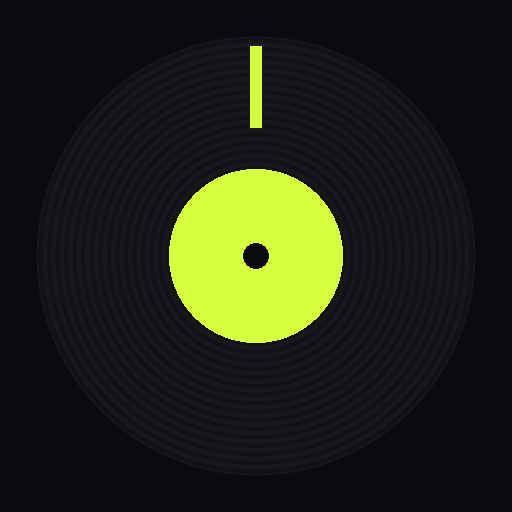
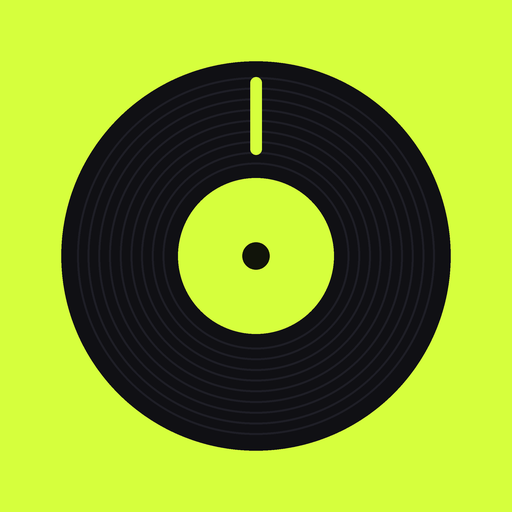
入りをプレイヤーで直せるようにする（波形の線をつかむ・±1拍・ここを入りに）、アイコンを背景から浮くように作り直す

diff --git a/app.js b/app.js
@@ -135,6 +135,14 @@ const bpmOf = (s) => s.bpmManual || s.analysis?.bpm || null;
 const beat0Of = (s) => (s.beat0Manual ?? s.analysis?.beat0) || 0;
 const entryOf = (s) => (s.entryManual ?? s.analysis?.entry) ?? null;
 const beatLen = (s) => (bpmOf(s) ? 60 / bpmOf(s) : null);
+// 入りを手で決める。null なら自動に戻す
+function setEntry(s, t) {
+  if (t == null) delete s.entryManual;
+  else s.entryManual = Math.max(0, Math.min(durSec() || t, t));
+  store.putSong(s);
+  if (s === S.cur) { buildWave(); renderPlayerInfo(); if (S.loopBars) setLoop(S.loopBars); }
+  renderLibrary();
+}
 // 「入り」を一番近い拍に合わせた位置。ここを1小節目1拍目として数える
 function anchorOf(s) {
   const T = beatLen(s), e = entryOf(s), b0 = beat0Of(s);
@@ -682,8 +690,13 @@ function renderPlayerInfo() {
   if (!s) return;
   const bpm = bpmOf(s);
   $('#bpm').textContent = bpm ? `${bpm.toFixed(1)} BPM` : 'BPM --';
-  const e = entryOf(s);
-  $('#entryInfo').textContent = S.analyzing.has(s.id) ? '解析中…' : e != null ? `入り ${fmt1(e)}` : '入り 不明';
+  const e = entryOf(s), T = beatLen(s);
+  $('#entryInfo').replaceChildren(S.analyzing.has(s.id) ? '解析中…' : e != null ? `入り ${fmt1(e)}` : '入り 不明',
+    s.entryManual != null ? h('span', { class: 'tag' }, '手動') : '');
+  // テンポが分かれば1拍ずつ、分からなければ0.1秒ずつ動かす
+  $('#entryBack').textContent = T ? '−1拍' : '−0.1秒';
+  $('#entryFwd').textContent = T ? '+1拍' : '+0.1秒';
+  $('#entryBack').disabled = $('#entryFwd').disabled = e == null;
   const q = S.queue, i = q.indexOf(s.id);
   const next = S.songs.find((x) => x.id === q[(i + 1) % q.length]);
   $('#nextTitle').textContent = next && next !== s ? next.title : '—';
@@ -790,11 +803,19 @@ function drawWave(t) {
   g.fillRect(x - 1, 0, 2, hgt);
 }
 
-function waveSeek(e) {
+function waveTime(e) {
   const r = $('#wave').getBoundingClientRect();
-  const dur = durSec();
-  if (!dur) return;
-  seek(Math.max(0, Math.min(1, (e.clientX - r.left) / r.width)) * dur);
+  return Math.max(0, Math.min(1, (e.clientX - r.left) / r.width)) * durSec();
+}
+function waveSeek(e) {
+  if (durSec()) seek(waveTime(e));
+}
+// 指が入りの線から 18px 以内なら、線をつかむ
+function nearEntry(e) {
+  const s = S.cur, ent = s && entryOf(s), dur = durSec();
+  if (ent == null || !dur) return false;
+  const r = $('#wave').getBoundingClientRect();
+  return Math.abs(e.clientX - (r.left + (ent / dur) * r.width)) < 18;
 }
 
 // ---------- 小節カウンター と カウントイン ----------
@@ -920,11 +941,11 @@ function renderEdit() {
       h('h3', {}, '入り', h('span', { class: 'val' }, e != null ? fmt1(e) : '不明'),
         s.entryManual != null ? h('span', { class: 'tag' }, '手動') : null),
       h('div', { class: 'row' },
-        h('button', { disabled: !T || e == null, onclick: () => { s.entryManual = e - T; save(); } }, '−1拍'),
-        h('button', { disabled: !T || e == null, onclick: () => { s.entryManual = e + T; save(); } }, '+1拍'),
-        h('button', { class: 'primary', onclick: () => { s.entryManual = nowSec(); save(); toast('今の位置を入りにしました'); } }, '今の位置を入りに'),
-        h('button', { disabled: s.entryManual == null, onclick: () => { delete s.entryManual; save(); } }, '自動に戻す')),
-      h('p', { class: 'hint' }, '曲を流しながら、ラップが始まった瞬間に「今の位置を入りに」を押すと確実です。')),
+        h('button', { disabled: !T || e == null, onclick: () => { setEntry(s, e - T); renderEdit(); } }, '−1拍'),
+        h('button', { disabled: !T || e == null, onclick: () => { setEntry(s, e + T); renderEdit(); } }, '+1拍'),
+        h('button', { class: 'primary', onclick: () => { setEntry(s, nowSec()); renderEdit(); toast('今の位置を入りにしました'); } }, '今の位置を入りに'),
+        h('button', { disabled: s.entryManual == null, onclick: () => { setEntry(s, null); renderEdit(); } }, '自動に戻す')),
+      h('p', { class: 'hint' }, '曲を流しながら、ラップが始まった瞬間に「今の位置を入りに」を押すと確実です。プレイヤーの波形の「入り」の線も、指でつかんで動かせます。')),
     h('section', {},
       h('h3', {}, 'テンポ', h('span', { class: 'val' }, bpm ? `${bpm.toFixed(1)} BPM` : '--'),
         s.bpmManual ? h('span', { class: 'tag' }, '手動') : null),
@@ -1089,8 +1110,27 @@ async function init() {
   $('#edit').addEventListener('click', () => { renderEdit(); openPanel('#editPanel'); });
   document.querySelectorAll('[data-close]').forEach((b) => b.addEventListener('click', closePanel));
   const wave = $('#wave');
-  wave.addEventListener('pointerdown', (e) => { wave.setPointerCapture(e.pointerId); waveSeek(e); });
-  wave.addEventListener('pointermove', (e) => { if (wave.hasPointerCapture(e.pointerId)) waveSeek(e); });
+  let dragEntry = false;
+  wave.addEventListener('pointerdown', (e) => {
+    wave.setPointerCapture(e.pointerId);
+    dragEntry = nearEntry(e);
+    if (dragEntry) S.cur.entryManual = waveTime(e); else waveSeek(e);
+  });
+  wave.addEventListener('pointermove', (e) => {
+    if (!wave.hasPointerCapture(e.pointerId)) return;
+    if (dragEntry) { S.cur.entryManual = waveTime(e); renderPlayerInfo(); } else waveSeek(e);
+  });
+  const dropEntry = () => {
+    if (!dragEntry) return;
+    dragEntry = false;
+    setEntry(S.cur, S.cur.entryManual);
+    toast(`入りを ${fmt1(entryOf(S.cur))} にしました`);
+  };
+  wave.addEventListener('pointerup', dropEntry);
+  wave.addEventListener('pointercancel', dropEntry);
+  $('#entryBack').addEventListener('click', () => { const s = S.cur, e = entryOf(s); setEntry(s, e - (beatLen(s) || 0.1)); });
+  $('#entryFwd').addEventListener('click', () => { const s = S.cur, e = entryOf(s); setEntry(s, e + (beatLen(s) || 0.1)); });
+  $('#entryHere').addEventListener('click', () => { setEntry(S.cur, nowSec()); toast('今の位置を入りにしました'); });
   window.addEventListener('resize', () => S.cur && buildWave());
   // iPhone の Safari でピンチの拡大を止める
   document.addEventListener('gesturestart', (e) => e.preventDefault());

diff --git a/icons.js b/icons.js
@@ -7,6 +7,7 @@ export const ICONS = {
  "disc-3": "<circle cx=\"12\" cy=\"12\" r=\"10\" /><path d=\"M6 12c0-1.7.7-3.2 1.8-4.2\" /><circle cx=\"12\" cy=\"12\" r=\"2\" /><path d=\"M18 12c0 1.7-.7 3.2-1.8 4.2\" />",
  "drum": "<path d=\"m2 2 8 8\" /><path d=\"m22 2-8 8\" /><ellipse cx=\"12\" cy=\"9\" rx=\"10\" ry=\"5\" /><path d=\"M7 13.4v7.9\" /><path d=\"M12 14v8\" /><path d=\"M17 13.4v7.9\" /><path d=\"M2 9v8a10 5 0 0 0 20 0V9\" />",
  "file-plus": "<path d=\"M15 2H6a2 2 0 0 0-2 2v16a2 2 0 0 0 2 2h12a2 2 0 0 0 2-2V7Z\" /><path d=\"M14 2v4a2 2 0 0 0 2 2h4\" /><path d=\"M9 15h6\" /><path d=\"M12 18v-6\" />",
+ "flag": "<path d=\"M4 15s1-1 4-1 5 2 8 2 4-1 4-1V3s-1 1-4 1-5-2-8-2-4 1-4 1z\" /><line x1=\"4\" x2=\"4\" y1=\"22\" y2=\"15\" />",
  "headphones": "<path d=\"M3 14h3a2 2 0 0 1 2 2v3a2 2 0 0 1-2 2H5a2 2 0 0 1-2-2v-7a9 9 0 0 1 18 0v7a2 2 0 0 1-2 2h-1a2 2 0 0 1-2-2v-3a2 2 0 0 1 2-2h3\" />",
  "info": "<circle cx=\"12\" cy=\"12\" r=\"10\" /><path d=\"M12 16v-4\" /><path d=\"M12 8h.01\" />",
  "list-music": "<path d=\"M21 15V6\" /><path d=\"M18.5 18a2.5 2.5 0 1 0 0-5 2.5 2.5 0 0 0 0 5Z\" /><path d=\"M12 12H3\" /><path d=\"M16 6H3\" /><path d=\"M12 18H3\" />",

diff --git a/style.css b/style.css
@@ -135,7 +135,10 @@ body[data-screen="player"] #player {
 #wave { width: 100%; height: 104px; display: block; touch-action: none; }
 .info { display: flex; justify-content: space-between; align-items: center; gap: 8px; margin-top: 8px; font-size: 13px; font-variant-numeric: tabular-nums; }
 .info.sub { margin-top: 2px; color: var(--dim); font-size: 12px; min-height: 16px; }
-#entryInfo { color: var(--entry); }
+.entry-bar { display: flex; align-items: center; gap: 6px; margin-top: 8px; }
+#entryInfo { flex: 1; min-width: 0; color: var(--entry); font-size: 13px; font-variant-numeric: tabular-nums; display: flex; align-items: center; gap: 6px; white-space: nowrap; }
+.entry-bar .small { padding: 7px 10px; }
+.entry-here { color: var(--entry); box-shadow: inset 0 0 0 1.5px var(--entry); }
 #counter { font-weight: 700; color: var(--accent); }
 #beatDot { display: inline-block; width: 8px; height: 8px; border-radius: 50%; background: var(--accent); margin-right: 6px; opacity: .15; vertical-align: 1px; }
 

diff --git a/index.html b/index.html
@@ -80,7 +80,14 @@
     <span id="counter"></span>
     <span><span id="beatDot"></span><span id="bpm"></span></span>
   </div>
-  <div class="info sub"><span id="entryInfo"></span><span id="status"></span></div>
+  <!-- 入りをその場で直す（波形の「入り」の線は指で動かせる） -->
+  <div class="entry-bar">
+    <span id="entryInfo"></span>
+    <button id="entryBack" class="small"></button>
+    <button id="entryFwd" class="small"></button>
+    <button id="entryHere" class="small entry-here" data-icon="flag">ここを入りに</button>
+  </div>
+  <div class="info sub"><span id="status"></span></div>
 
   <div class="stage">
     <!-- DJ：レコードをこする -->

diff --git a/sw.js b/sw.js
@@ -1,6 +1,6 @@
 // アプリ本体をスマホに保存して、電波が無くても開けるようにする。
 // 中身を変えたら VERSION を上げる。
-const VERSION = 'rapdeck-v5';
+const VERSION = 'rapdeck-v6';
 const FILES = ['./', 'index.html', 'style.css', 'app.js', 'analysis.js', 'icons.js', 'deck-worklet.js',
   'manifest.webmanifest', 'icon-180.png', 'icon-192.png', 'icon-512.png'];
 
